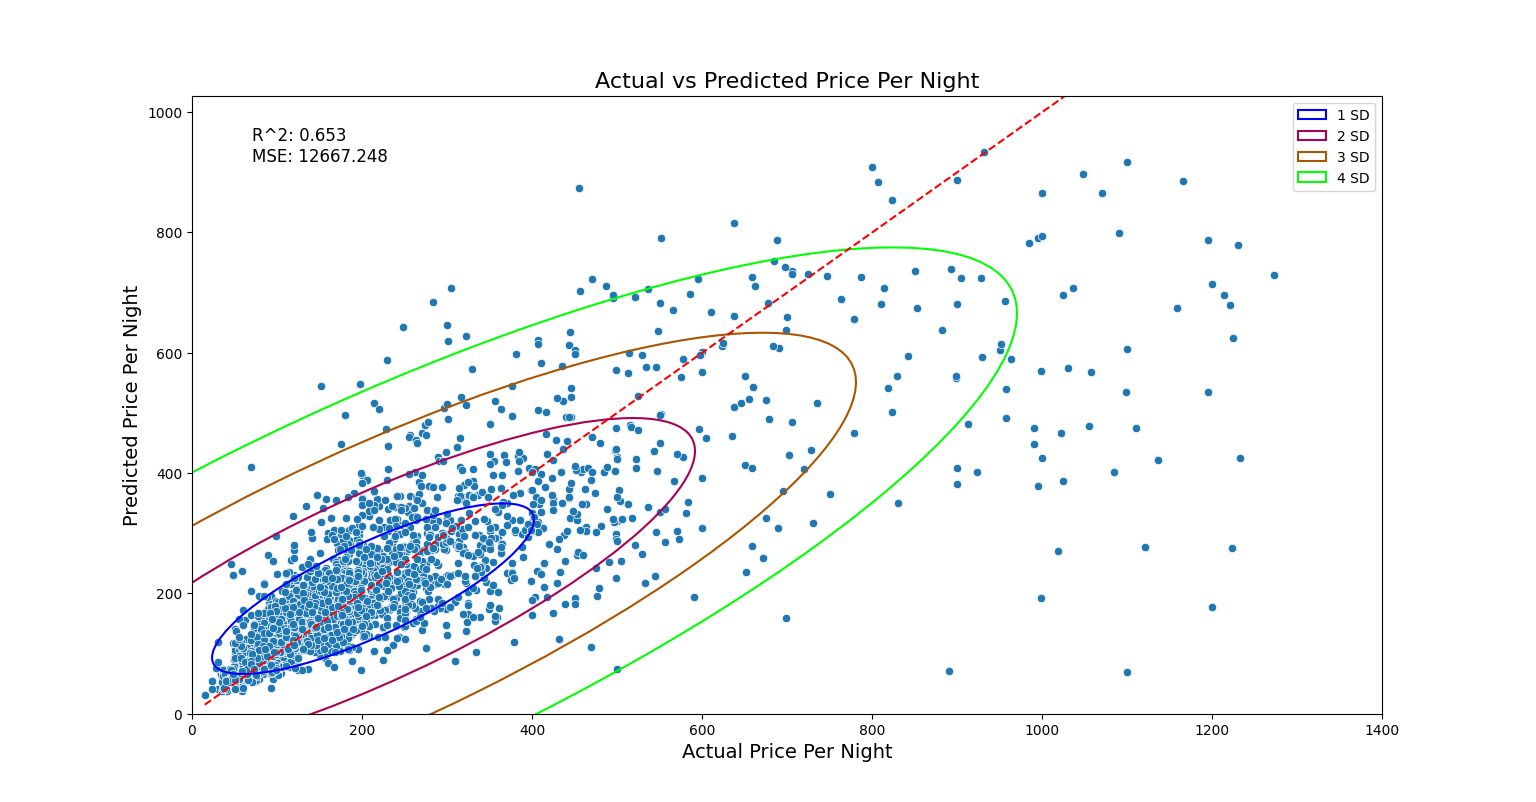
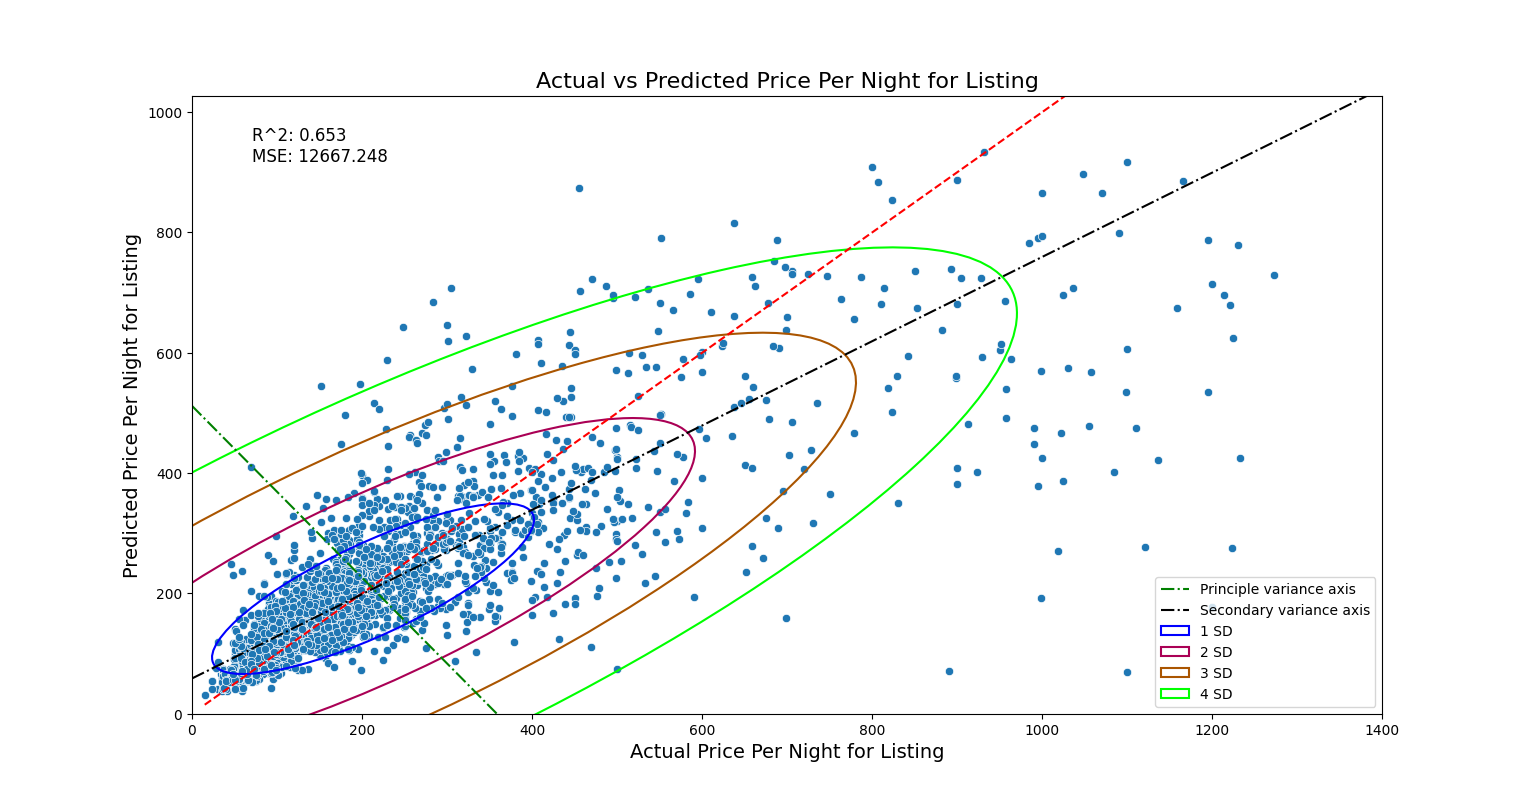
some graph updates

diff --git a/model/randomforestshtuff.py b/model/randomforestshtuff.py
@@ -8,12 +8,14 @@ from sklearn.metrics import mean_squared_error
 from sklearn.model_selection import cross_val_score, train_test_split
 import matplotlib.pyplot as plt
 from matplotlib.patches import Ellipse
+from matplotlib.lines import Line2D
 import seaborn as sns
 
 
 # https://mljar.com/blog/save-load-random-forest/
 
 pd.set_option("display.max_rows", None)
+pd.set_option("display.max_columns", None)
 
 data_path = Path(__file__).parent / "cleaned_listings.csv"
 
@@ -89,21 +91,23 @@ def main() -> None:
     )
 
     # While we may be losing oddball properties, such as the one random villa overlooking the la basin thats 3k a night, this will do well for most houses in la county
+    print(f"Orig Num samples: {len(df)}")
     mean_y = df["price_night"].mean()
     std_y = df["price_night"].std()
-    print(f"Orign price mean: {mean_y}")
-    print(f"Orign price std: {std_y}")
     df["z_score"] = (df["price_night"] - mean_y) / std_y
 
     df = df[np.abs(df["z_score"]) <= 4]
     df = df.drop(columns=["z_score"])
 
     print(f"Num samples: {len(df)}")
+    print(f"Orignal price mean: {mean_y}")
+    print(f"Orignal price std: {std_y}")
     print(f"Min price: {df["price_night"].min()}")
     print(f"Max price: {df["price_night"].max()}")
     print(f"price mean: {df["price_night"].mean()}")
     print(f"price std: {df["price_night"].std()}")
 
+    # print(df.head())
     forest(df)
 
 
@@ -135,9 +139,9 @@ def forest(df: pd.DataFrame):
 def plot_accuracy(y_test, y_pred, mse, r2):
     plt.figure(figsize=(8, 6))
     ax = sns.scatterplot(x=y_test, y=y_pred)
-    plt.title("Actual vs Predicted Price Per Night", fontsize=16)
-    plt.xlabel("Actual Price Per Night", fontsize=14)
-    plt.ylabel("Predicted Price Per Night", fontsize=14)
+    plt.title("Actual vs Predicted Price Per Night for Listing", fontsize=16)
+    plt.xlabel("Actual Price Per Night for Listing", fontsize=14)
+    plt.ylabel("Predicted Price Per Night for Listing", fontsize=14)
     plt.plot(
         [min(y_test), max(y_test)],
         [min(y_test), max(y_test)],
@@ -157,24 +161,40 @@ def plot_accuracy(y_test, y_pred, mse, r2):
     # ellipses go negative so just clamp these
     ax.set_xlim(0, max(y_test) * 1.1)
     ax.set_ylim(0, max(y_pred) * 1.1)
-    plt.legend()
+    plt.legend(loc="lower right")
     plt.show()
 
 
-def draw_ellipses(ax, x, y, deviations=[1, 2, 3, 4]):
-    cm = plt.colormaps["brg"]
-    cov = np.cov(x, y)
-    eigvals, eigvecs = np.linalg.eigh(cov)
-
-    angle = np.degrees(np.arctan2(*eigvecs[:, 0][::-1]))
-
-    x_mean, y_mean = np.mean(x), np.mean(y)
-
+def draw_ellipses(ax: plt.Axes, y_test, y_pred, deviations=[1, 2, 3, 4]):
     num_deviations = len(deviations)
+    cm = plt.colormaps["brg"]
     colors = (
         tuple(float(c) for c in cm(i / (num_deviations - 1)))
         for i in range(num_deviations)
     )
+
+    eigvals, eigvecs = np.linalg.eigh(np.cov(y_test, y_pred))
+    x_mean, y_mean = np.mean(y_test), np.mean(y_pred)
+
+    angle = np.degrees(np.arctan2(*eigvecs[:, 0][::-1]))
+    print("tan(angle)", np.tan(np.radians(angle)))
+    slope = np.tan(np.radians(angle))
+
+    plt.axline(
+        (x_mean, y_mean),
+        slope=slope,
+        color="green",
+        linestyle="-.",
+        label="Principle variance axis",
+    )
+    plt.axline(
+        (x_mean, y_mean),
+        slope=-(1 / slope),
+        linestyle="-.",
+        color="black",
+        label="Secondary variance axis",
+    )
+
     for n_std, color in zip(deviations, colors):
         width, height = 2 * n_std * np.sqrt(eigvals)
         ellipse = Ellipse(
